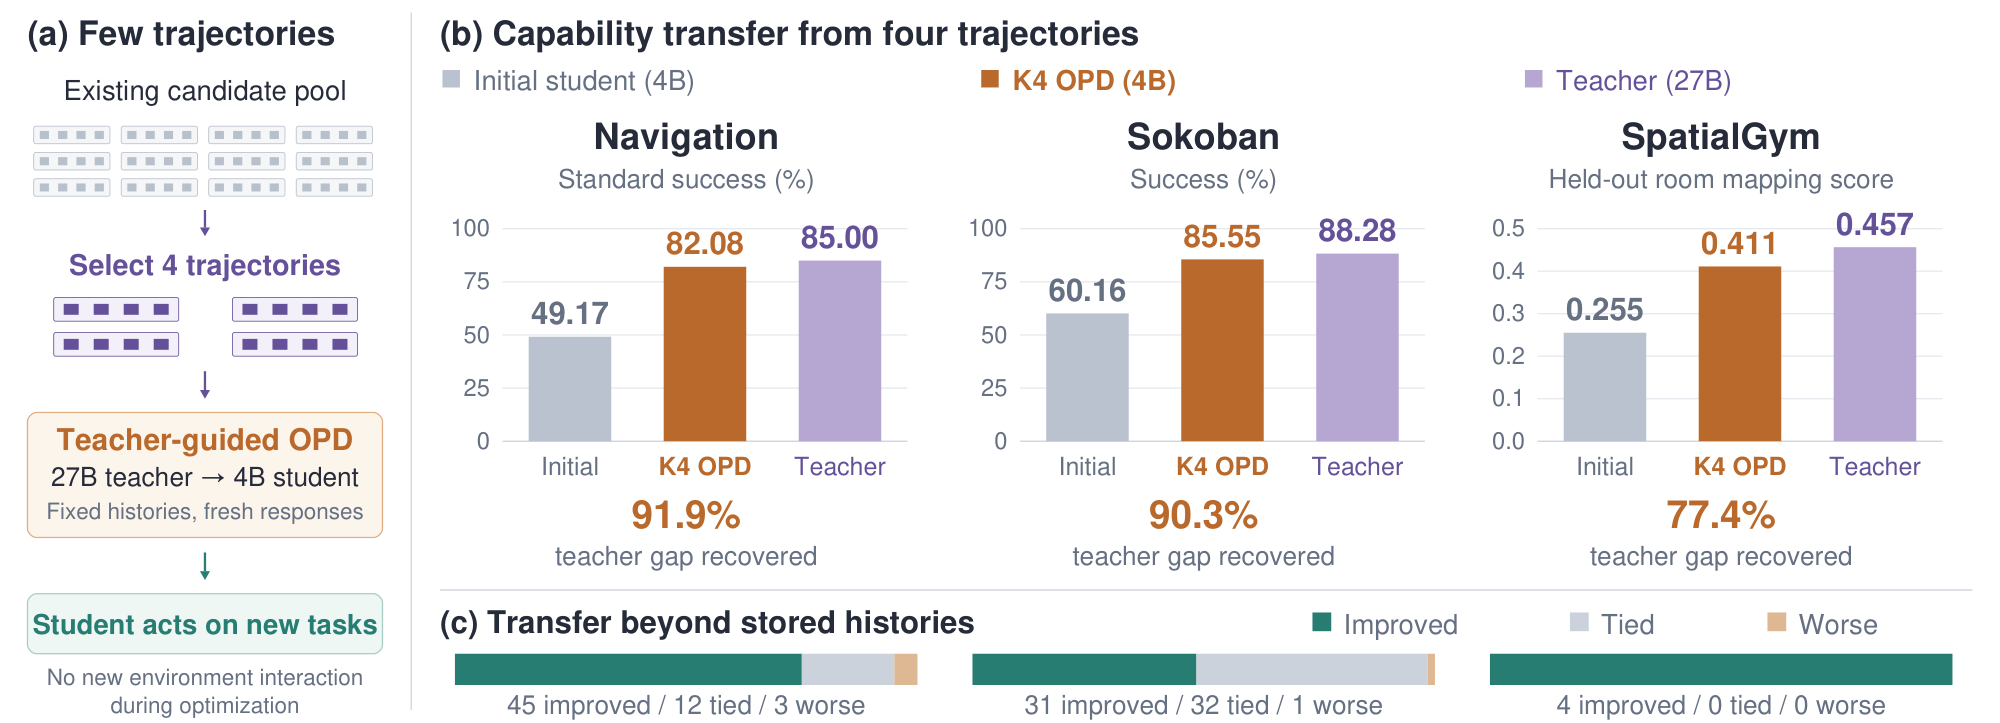
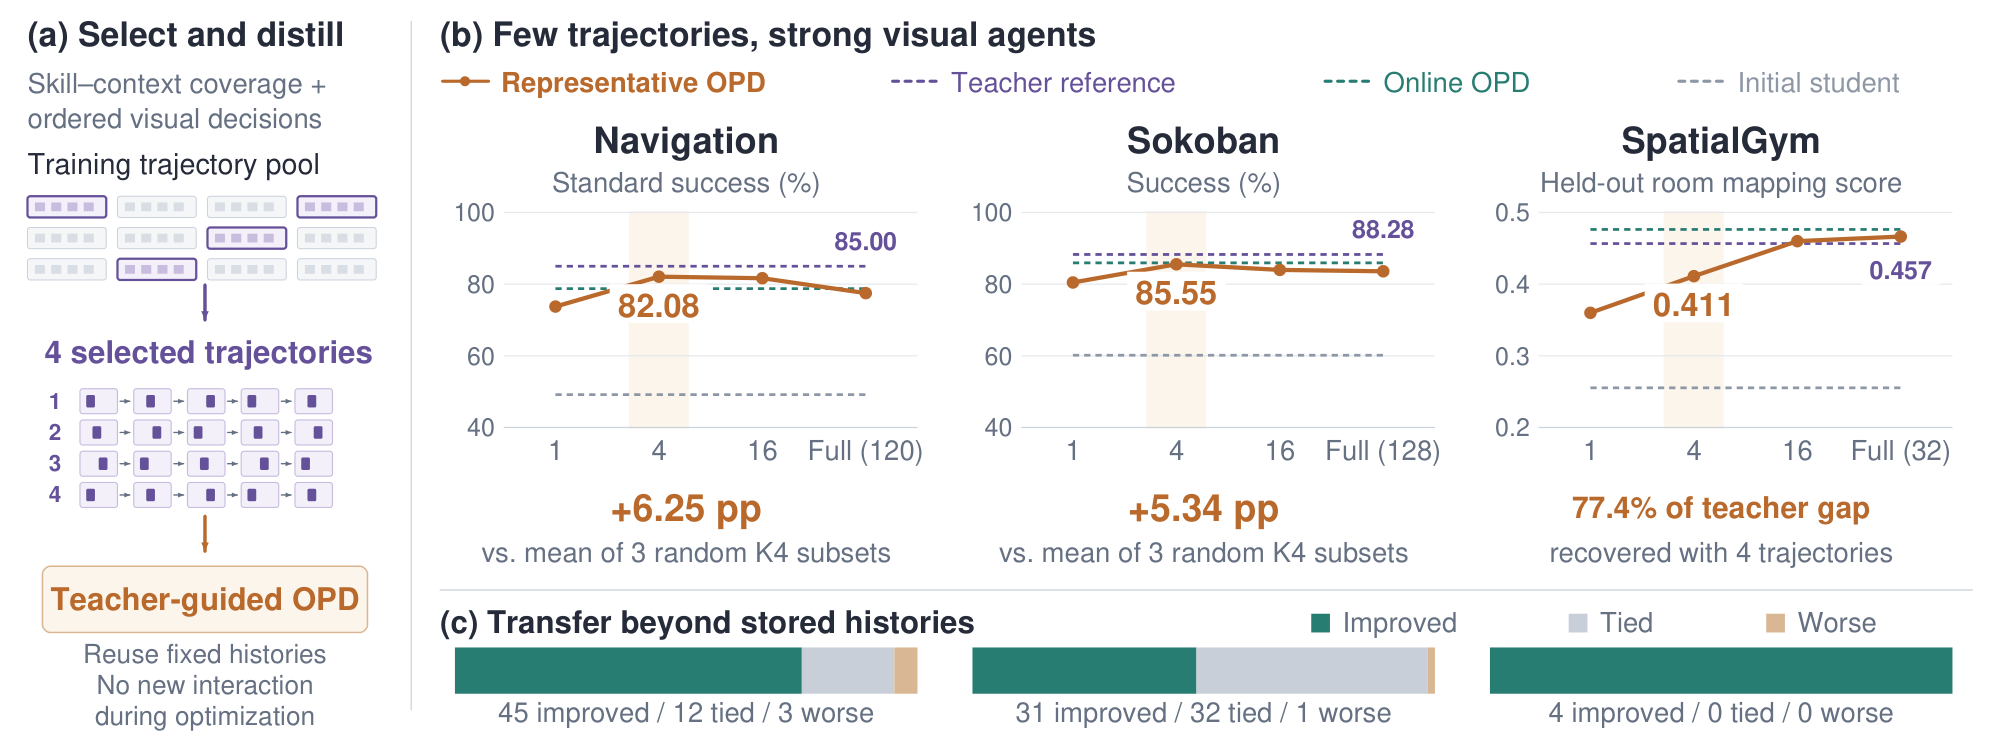
Align README with restored selection and transfer teaser

diff --git a/README.md b/README.md
@@ -10,9 +10,9 @@ With **four selected trajectories per environment**, our Qwen3.5-4B student reac
 
 > **Release scope:** the code starts from an already selected set of trajectories. Environment adapters, collection, prefix preparation, offline OPD, matched SFT, online OPD, and evaluation are included. The trajectory-selection front end is not released; its precomputed example annotations and choices are available to inspect.
 
-![Paper Figure 1: four representative trajectories support teacher-guided distillation; initial student, K4 OPD, and teacher performance on Navigation, Sokoban, and held-out SpatialGym rooms.](assets/figures/teaser.png)
+![Paper Figure 1: representative trajectory selection and OPD; K1/K4/K16/full-pool performance, selection gains, and task-level transfer on Navigation, Sokoban, and held-out SpatialGym rooms.](assets/figures/teaser.png)
 
-**Figure 1 — Few representative trajectories, broad capability transfer.** Reproduced from the paper. Select **four complete trajectories per environment**, distill a 27B teacher into a 4B student using their histories and fresh responses, then evaluate the student through new interactions. After **100 updates × 64 responses**, K4 OPD recovers **91.9%**, **90.3%**, and **77.4%** of the initial-student-to-teacher gap on Navigation, Sokoban, and held-out single-room SpatialGym. The zero-based bars compare the initial student, adapted student, and teacher; the lower panels show task-level changes using four-repeat means. Optimization needs no new environment interaction. Results use one training seed. The paper's Figure 4 retains the K1/K4/K16/full-pool comparison. Click the image to view it at full resolution.
+**Figure 1 — Few representative trajectories, broad task transfer.** Reproduced from the paper. **Skill–context coverage and ordered visual decisions** guide the selection of complete training trajectories for teacher-guided OPD. The curves compare K1/K4/K16/full-pool final scores after **100 updates × 64 responses**, with initial-student, teacher, and online OPD references. Four trajectories exceed the mean of three random K4 subsets by **6.25 and 5.34 percentage points** on Navigation and Sokoban, and recover **77.4% of the student–teacher gap** on held-out single-room SpatialGym. Lower panels show task-level changes using four-repeat means. Optimization needs no new environment interaction. Axes are zoomed and budgets are categorical; results use one training seed, with collaborator-reported K1/K16 and random controls. Click the image to view it at full resolution.
 
 ## Results
 
